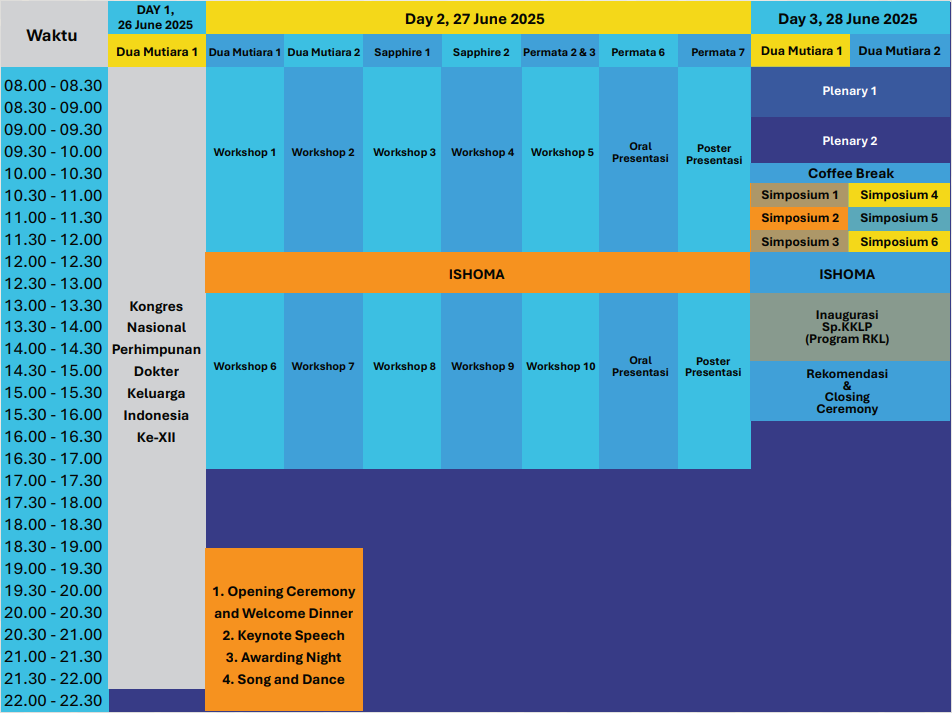
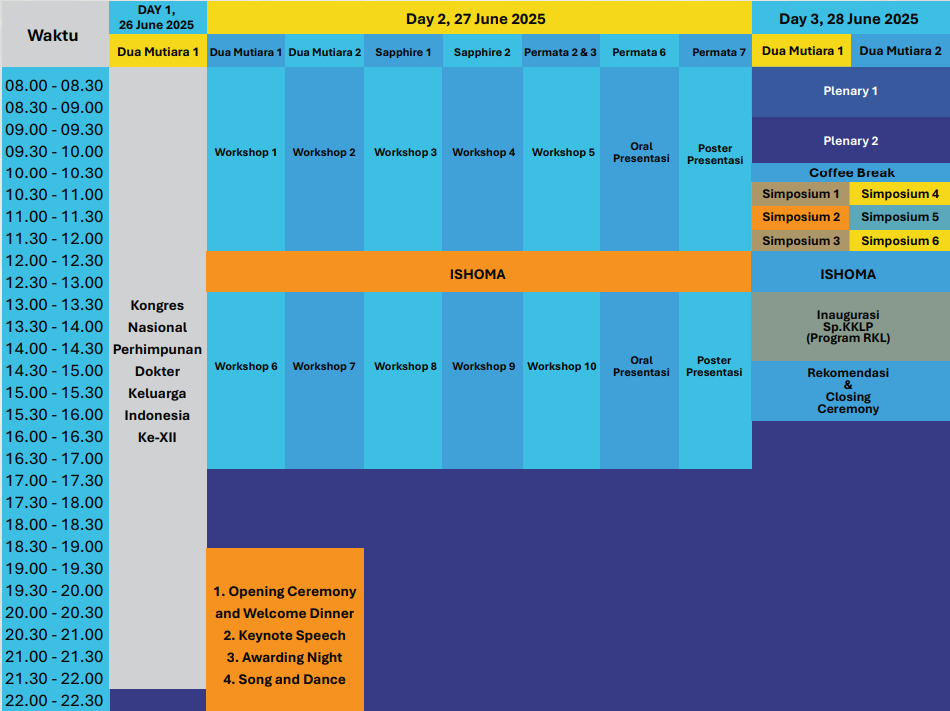
`fix:` add program at a glance

diff --git a/app/(client)/program-at-glance/page.tsx b/app/(client)/program-at-glance/page.tsx
@@ -1,5 +1,6 @@
 import BannerTitle from "@/components/banner-title"
-import programAtAGlance from "@/const/program-glance"
+import Image from "next/image"
+import ProgramAtAGlance from "@/public/images/glance.png"
 
 export default function InvitedSpeakers() {
   return (
@@ -9,38 +10,7 @@ export default function InvitedSpeakers() {
         <div className="font-medium text-sm mb-4">
           Jadwal program dapat berubah. Silakan periksa kembali secara rutin untuk mengetahui pembaruan guna memastikan Anda mendapatkan informasi terkini.
         </div>
-        <div className="flex flex-col border-t-4 border-primary-color">
-          <div className={`bg-blue-500/10 flex items-center border-x border-t`}>
-            <div className="block text-sm w-1/3 p-2">
-              <span className="font-medium">Waktu</span>
-            </div>
-            <div className="block text-sm w-1/3 p-2 border-x">
-              <span className="font-medium">26 Juni 2025</span>
-            </div>
-            <div className="block text-sm w-1/3 p-2 border-r">
-              <span className="font-medium">27 Juni 2025</span>
-            </div>
-            <div className="block text-sm w-1/3 p-2">
-              <span className="font-medium">28 Juni 2025</span>
-            </div>
-          </div>
-          {programAtAGlance.map((glance, i) => (
-            <div key={i + '-' + glance.June26} className={`flex items-center border-x border-t ${programAtAGlance.length - 1 === i ? 'border-b' : ''}`}>
-              <div className="block text-sm w-1/3 p-2">
-                <span className="font-medium">{glance.Time}</span>
-              </div>
-              <div className="block text-sm w-1/3 p-2 border-x">
-                <span>{glance.June26}</span>
-              </div>
-              <div className="block text-sm w-1/3 p-2 border-r">
-                <span>{glance.June27}</span>
-              </div>
-              <div className="block text-sm w-1/3 p-2">
-                <span>{glance.June28}</span>
-              </div>
-            </div>
-          ))}
-        </div> 
+        <Image src={ProgramAtAGlance} alt="program at a glance" className="w-full" />
       </div>
     </div>
   )
